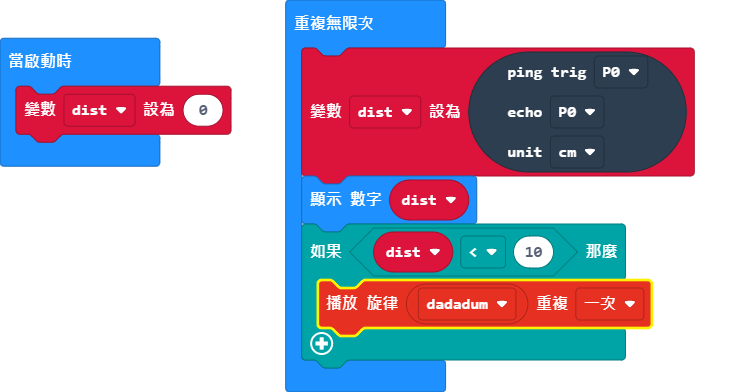
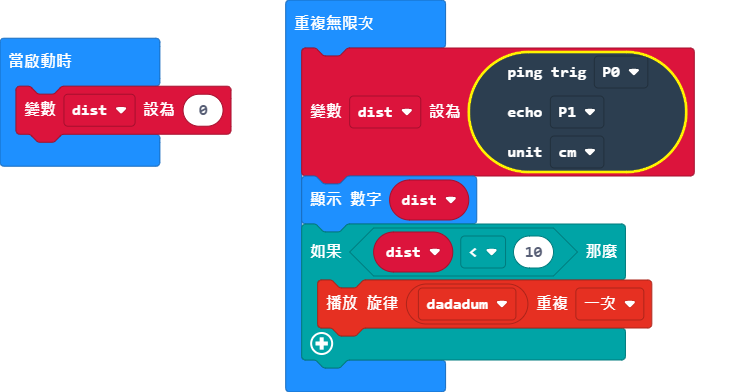
Update main.blocks, main.ts

diff --git a/main.ts b/main.ts
@@ -2,7 +2,7 @@ let dist = 0
 basic.forever(function () {
     dist = sonar.ping(
     DigitalPin.P0,
-    DigitalPin.P0,
+    DigitalPin.P1,
     PingUnit.Centimeters
     )
     basic.showNumber(dist)
